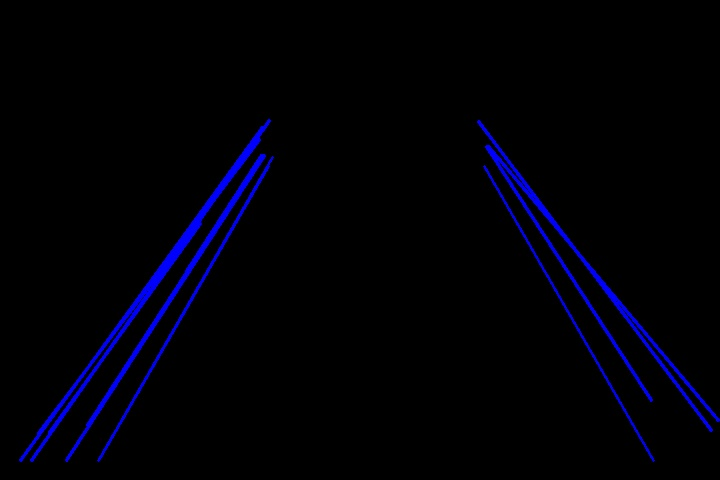
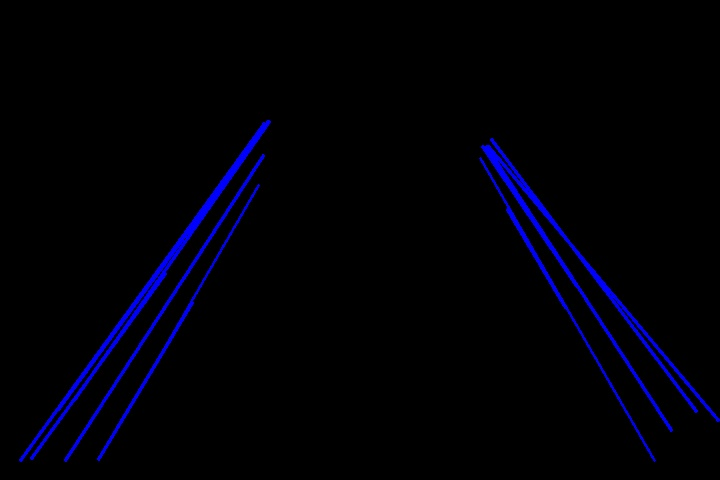
line average improved

diff --git a/test.py b/test.py
@@ -1,7 +1,7 @@
 import cv2
-from picamera import PiCamera
+#from picamera import PiCamera
 from time import sleep
-from picamera.array import PiRGBArray
+#from picamera.array import PiRGBArray
 import numpy as np
 import copy
 
@@ -91,7 +91,7 @@ def distanceLines(line1, line2):
 	return distance / 2
 
 def averageLines(lines):
-	threshold = 60
+	threshold = 100
 	i = 0
 	k = 0
 	newList=[]	
@@ -168,13 +168,13 @@ def getOrientation(image, lines, margins):
 	print distanceMedium
 
 # Set up PiCamera and let it warm up
-camera = PiCamera()
-raw = PiRGBArray(camera)
+#camera = PiCamera()
+#raw = PiRGBArray(camera)
 
-camera.capture(raw, format="bgr")
-image = raw.array
+#camera.capture(raw, format="bgr")
+#image = raw.array
 
-
+image = cv2.imread("org.jpg")
 cv2.imwrite("org.jpg", image)
 
 
@@ -226,6 +226,7 @@ lines = houghResult[1]
 draw_lines(line_image, lines)
 
 averageLines = averageLines(lines)
+print averageLines
 draw_lines(line_image_avg, averageLines)
 
 
@@ -236,7 +237,7 @@ print 'get orientation'
 getOrientation(line_image_avg, averageLines, margins)
 
 
-result = weighted_img(line_image, image, a=0.8, b=1., g=0.)
+result = weighted_img(line_image_avg, image, a=0.8, b=1., g=0.)
 
 
 
